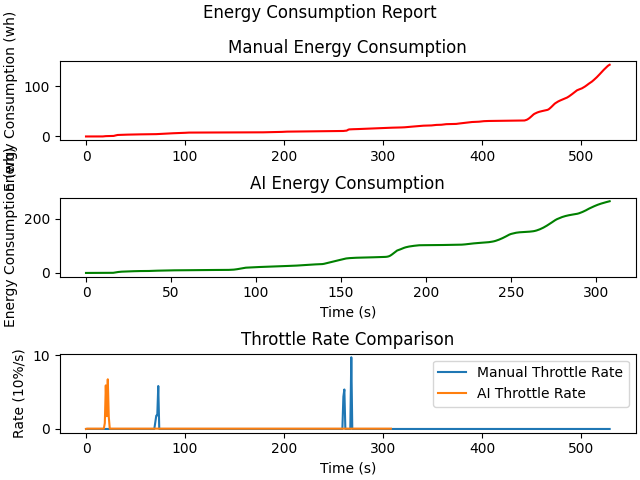
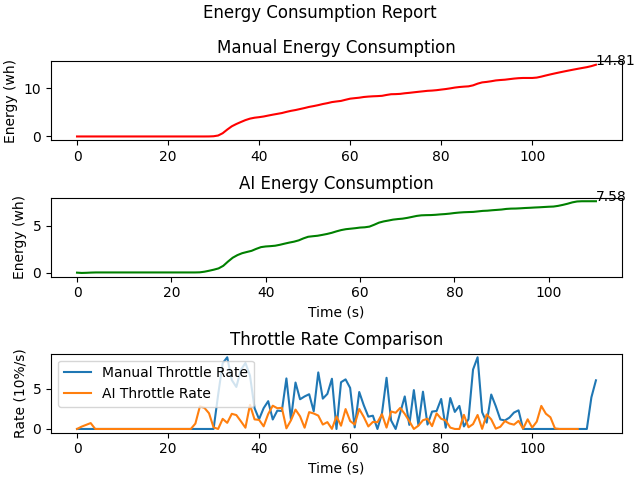
add AI low pass filter

diff --git a/src/visual.py b/src/visual.py
@@ -22,14 +22,17 @@ def visual(t_real, v_real, v_wltc):
 def compare_pic(t_real, t, e, e_real, thro_dev, thro_real_dev):
     fig, (ax1, ax2, ax3) = plt.subplots(3, constrained_layout=True)
     fig.suptitle("Energy Consumption Report")
+    # Manual Energy plot
     sub1 = ax1.plot(t_real, e_real, color="red")
     ax1.set_title("Manual Energy Consumption")
-    ax1.set(ylabel="Energy Consumption (wh)")
+    ax1.set(ylabel="Energy (wh)")
     ax1.annotate("{:.2f}".format(e_real[-1]), (t_real[-1], e_real[-1]))
+    # AI Energy plot
     sub2 = ax2.plot(t, e, color="green")
     ax2.set_title("AI Energy Consumption")
-    ax2.set(xlabel="Time (s)", ylabel="Energy Consumption (wh)")
+    ax2.set(xlabel="Time (s)", ylabel="Energy (wh)")
     ax2.annotate("{:.2f}".format(e[-1]), (t[-1], e[-1]))
+    # Thro rate comparison
     sub3 = ax3.plot(t_real, thro_real_dev)
     sub4 = ax3.plot(t, thro_dev)
     ax3.set_title("Throttle Rate Comparison")
@@ -43,6 +46,7 @@ def gen_report(diff, diff1, e):
     img = "../data/Comparison.png"
     styles = getSampleStyleSheet()
     avg_diff = round((diff + diff1) / 2, 2)
+    # title format
     title = ParagraphStyle(
         "title",
         fontName="Helvetica-Bold",
@@ -51,7 +55,7 @@ def gen_report(diff, diff1, e):
         alignment=1,
         spaceAfter=14,
     )
-
+    # warning format in red
     red = ParagraphStyle(
         "small",
         parent=styles["h1"],
@@ -60,18 +64,20 @@ def gen_report(diff, diff1, e):
         textColor="red",
         spaceAfter=14,
     )
-
+    # valid format in green
     green = ParagraphStyle(
         "small", fontSize=14, leading=8, spaceAfter=14, textColor="green"
     )
     report_title = Paragraph("Energy Consumption Report", title)
     v_lim = Paragraph("Velocity Offset Limit: 5 km/h", red)
 
+    # check if energy is saved
     if e >= 0:
         e_saved = Paragraph("You have saved total energy of " + str(e) + " wh", green)
     else:
-        e_saved = Paragraph("Energy is not saved: " + str(e) + " wh",red)
+        e_saved = Paragraph("Energy is not saved: " + str(e) + " wh", red)
 
+    # check if velocity offset valid
     if diff < 5 and diff1 < 5:
         v_actual = Paragraph(
             "Actual Velocity Offset: " + str(round(max(diff, diff1), 2)) + " km/h",
@@ -85,9 +91,8 @@ def gen_report(diff, diff1, e):
         vali = Paragraph("Validation: Invalid", red)
         e_saved = Paragraph("You have saved total energy of N\A wh", red)
 
-
-
-
+    # insert plot
     im = Image(img, 6 * inch, 4.5 * inch)
     report.build([report_title, v_lim, v_actual, vali, e_saved, im])
+    # open PDF
     wb.open("../data/report.pdf")

diff --git a/src/demo.py b/src/demo.py
@@ -40,6 +40,20 @@ def writexslx(x, y, v, path):
     writer.save()
 
 
+def ai_filter(thro):
+    # AI low pass filter
+    filted_thro = []
+    for idx, x in enumerate(thro):
+        if idx > 0 and idx < len(thro) - 1:
+            previous = thro[idx - 1]
+            next = thro[idx + 1]
+            x = (previous + x + next) / 3
+            filted_thro.append(x)
+    filted_thro = np.insert(filted_thro, 0, thro[0])
+    filted_thro = np.append(filted_thro, thro[-1])
+    return filted_thro
+
+
 def cumpute_loss(e_real, e, thro, thro_real):
     # calculate energy loss
     e_real_sum = integrate.cumtrapz(e_real, dx=0.1)
@@ -64,14 +78,20 @@ def cumpute_loss(e_real, e, thro, thro_real):
     # saved_AI = round(abs(loss_real_total-loss_AI_total),2)
 
     # for demo use, uncomment this section
-    e_sum = integrate.cumtrapz(e, dx=0.1) + 0.1 * np.random.rand(1)
-    thro_dev = abs(diff(thro) / 0.1) + 0.1 * np.random.rand(1)
+    # cumulative a^2
+    e_sum = integrate.cumtrapz(e, dx=0.1)
+    # pedal rate
+    thro_dev = abs(diff(thro) / 0.1)
     thro_dev = np.insert(thro_dev, 0, 0)
+    # cumulative pedal rate
     cum_thro_dev = integrate.cumtrapz(thro_dev, dx=0.1)
-    loss_AI = (e_sum + cum_thro_dev) * 0.375
+    # AI Loss
+    loss_AI = (e_sum + cum_thro_dev - 0.1 * np.random.rand(1)) * 0.375
     loss_AI = np.insert(loss_AI, 0, 0)
+    # total real loss and AI loss
     loss_real_total = round((e_real_sum[-1] + cum_thro_real_dev[-1]) * 0.375, 2)
     loss_AI_total = round((e_sum[-1] + cum_thro_dev[-1]) * 0.375, 2)
+    # saved energy
     saved_AI = round(loss_real_total - loss_AI_total, 2)
 
     return loss_AI, loss_real, saved_AI, thro_dev, thro_real_dev
@@ -84,7 +104,7 @@ def main():
     params = {
         "number_of_vehicles": 0,
         "number_of_walkers": 0,
-        "display_size": 320,  # screen size of bird-eye render
+        "display_size": 256,  # screen size of bird-eye render
         "max_past_step": 1,  # the number of past steps to draw
         "dt": 0.1,  # time interval between two frames
         "discrete": False,  # whether to use discrete control space
@@ -180,8 +200,13 @@ def main():
                 y = []
             env.reset()
             start = time.time()
+
+    # low pass filter for pedal rate
+    filted_thro = ai_filter(thro)
+
+    # calculate energy consumption and thro rate
     loss_AI, loss_real, saved_AI, thro_dev, thro_real_dev = cumpute_loss(
-        e_real, e, thro, thro_real
+        e_real, e, filted_thro, thro_real
     )
     # show plot and save report
     visual.compare_pic(t_real, t, loss_AI, loss_real, thro_dev, thro_real_dev)

diff --git a/src/gym_carla/envs/carla_env.py b/src/gym_carla/envs/carla_env.py
@@ -504,6 +504,7 @@ class CarlaEnv(gym.Env):
         ]
         # Custom function to map range of inputs [1, -1] to outputs [0, 1] i.e 1 from inputs means nothing is pressed
         # For the steering, it seems fine as it is
+
         K1 = 1.0  # 0.55
         steerCmd = K1 * math.tan(1.1 * jsInputs[self._steer_idx])
 
@@ -829,12 +830,16 @@ class CarlaEnv(gym.Env):
 
     def _init_renderer(self):
         """Initialize the birdeye view renderer."""
+        # full screen
         pygame.init()
         pygame.font.init()
         self.display = pygame.display.set_mode(
-            (self.display_size * 4, self.display_size * 2),
-            pygame.HWSURFACE | pygame.DOUBLEBUF,
+            (self.display_size * 4, self.display_size * 2), pygame.FULLSCREEN, 32
         )
+        # for small screen uncomment below
+        # self.display = pygame.display.set_mode(
+        #     (self.display_size * 4, self.display_size * 2),
+        #     pygame.HWSURFACE | pygame.DOUBLEBUF)
 
         pixels_per_meter = self.display_size / self.obs_range
         pixels_ahead_vehicle = (self.obs_range / 2 - self.d_behind) * pixels_per_meter
@@ -1081,7 +1086,7 @@ class CarlaEnv(gym.Env):
         # self.display.blit(birdeye_surface, (self.display_size * 2, self.display_size))
         text_color = (255, 255, 255)
         v_color = (0, 255, 0)
-        v_target_color = (255,20,147)
+        v_target_color = (255, 20, 147)
         c_warning = (255, 0, 0)
         background = (0, 0, 0)
         font = pygame.font.Font("freesansbold.ttf", 16)

diff --git a/src/draw_lane.py b/src/draw_lane.py
@@ -198,10 +198,10 @@ def main():
         "-i", "--info", action="store_true", help="Show text information"
     )
     argparser.add_argument(
-        "-x", default= -60, type=float, help="X start position (default: 0.0)"
+        "-x", default=-60, type=float, help="X start position (default: 0.0)"
     )
     argparser.add_argument(
-        "-y", default= 36, type=float, help="Y start position (default: 0.0)"
+        "-y", default=36, type=float, help="Y start position (default: 0.0)"
     )
     argparser.add_argument(
         "-z", default=0, type=float, help="Z start position (default: 0.0)"
